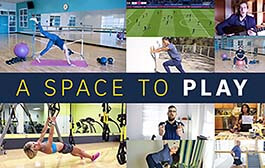
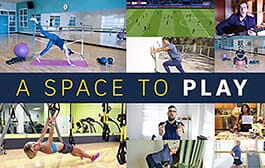
Remove brix_sans

diff --git a/optimized/index.html b/optimized/index.html
@@ -17,15 +17,12 @@
   <link href="_resources/css/styles.css" rel="stylesheet"/>
   <!-- Animation -->
   <link href="_resources/css/vendor/animate.css" rel="stylesheet"/>
-
-  <link rel="preload" href="_resources/css/vendor/brix_sans.css" as="style" onload="this.onload=null;this.rel='stylesheet'">
   <link rel="preload" href="_resources/css/custom-img.css" as="style" onload="this.onload=null;this.rel='stylesheet'">
   <link rel="preload" href="_resources/css/custom.css" as="style" onload="this.onload=null;this.rel='stylesheet'">
   <link rel="preload" href="_resources/css/vendor/font-awesome.css" as="style" onload="this.onload=null;this.rel='stylesheet'">
   <link rel="preload" href="_resources/css/vendor/slick.css" as="style" onload="this.onload=null;this.rel='stylesheet'">
   <link rel="preload" href="_resources/css/vendor/slick-theme.css" as="style" onload="this.onload=null;this.rel='stylesheet'">
   <noscript> 
-    <link href="_resources/css/vendor/brix_sans.css" rel="stylesheet" type="text/css">
     <link href="_resources/css/custom-img.css" rel="stylesheet">
     <link href="_resources/css/custom.css" rel="stylesheet">
     <link href="_resources/css/vendor/font-awesome.css" rel="stylesheet">
